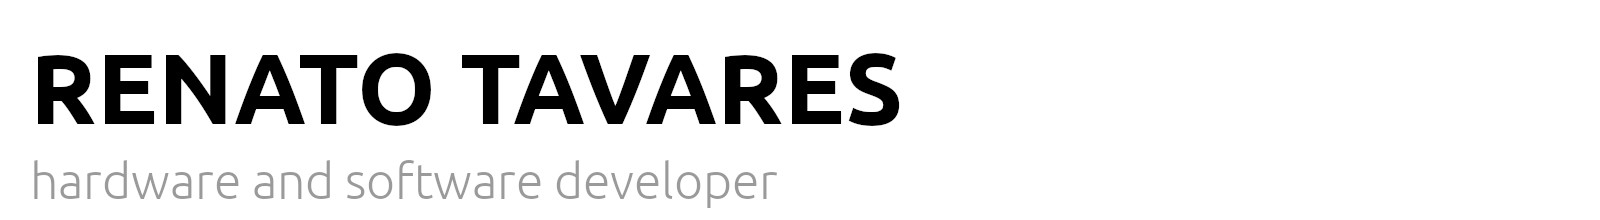
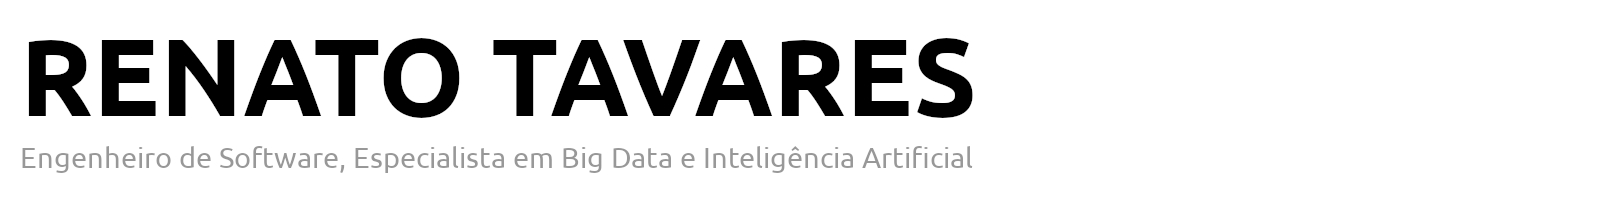
Capa

Changed region(s): [[0.0, 0.1636, 0.625, 0.5727], [0.0, 0.6545, 0.625, 0.9273]]

diff --git a/README.md b/README.md
@@ -1,13 +1,11 @@
-![Renato Tavares](https://raw.githubusercontent.com/rat/rat/master/img/cover.jpg)
+![Renato Augusto Tavares](https://raw.githubusercontent.com/rat/rat/master/img/cover.jpg)
 - - -
 
 <p align="center">
-  <a href="">Blog</a> •
-  <a href="">Resume</a> •
-  <a href="">Twitter</a> •
-  <a href="">Facebook</a> •
-  <a href="">Instagram</a> •
-  <a href="">LinkedIn</a> •
+  <a href="http://renatotavares.com">Blog</a> •
+  <a href="https://lattes.cnpq.br/9521612341950206">Currículo Lattes</a> •
+  <a href="https://raw.githubusercontent.com/rat/rat/master/resume/lattes.pdf">Resume</a> •
+  <a href="https://www.linkedin.com/in/java">LinkedIn</a> •
   <a href="https://www.paypal.com/cgi-bin/webscr?cmd=_s-xclick&hosted_button_id=YKQFN3FEKRFWL&source=url">Doar</a>
 </p>
 
